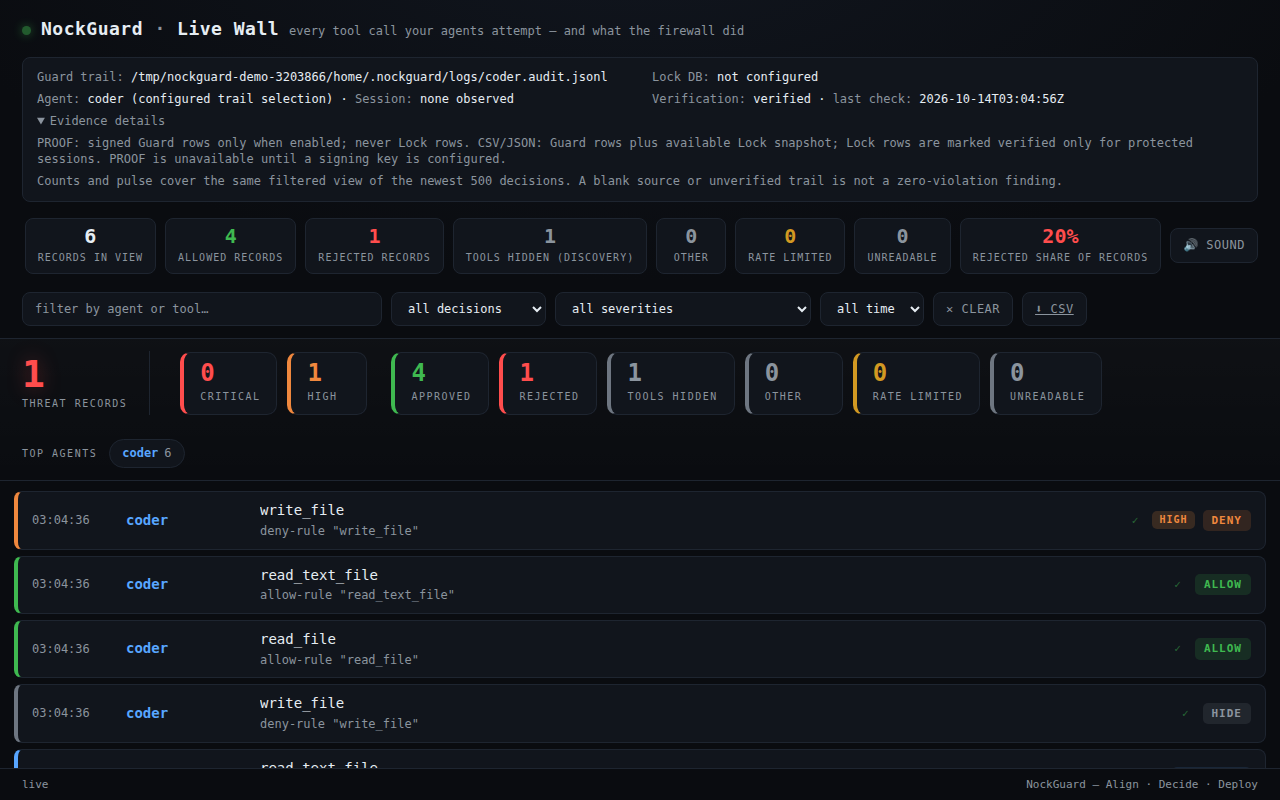
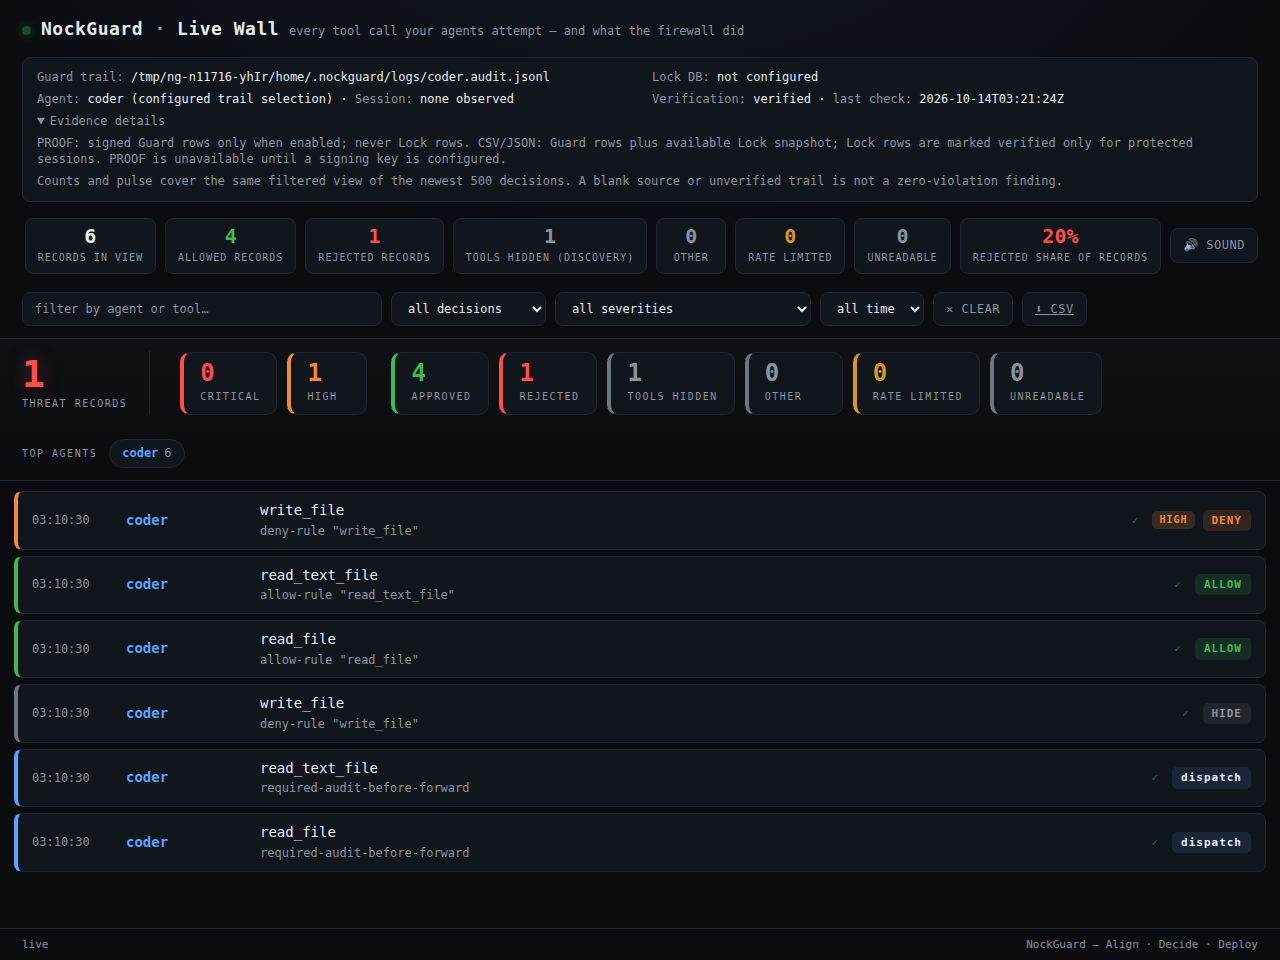
Docs: caption Wall screenshot as the acceptance trail, recapture uncut, note gitleaks and Linux-only check (#11716)

diff --git a/README.md b/README.md
@@ -39,10 +39,6 @@ The generated policy allows `coder` to call the filesystem server's `read_file` 
 }
 ```
 
-The Live Wall after the steps below, with the stub-backed quickstart's signed trail: two reads allowed, the `write_file` canary denied, and the `write_file` tool hidden from discovery. Verification reads `verified` against `coder.pub`.
-
-![NockGuard Live Wall showing allowed reads, a denied write_file and a verified signed trail](docs/screenshots/wall-signed-trail.png)
-
 Ask your MCP client to call `read_file` with `{"path":"<QS>/hello.txt"}`: it should return `NockGuard read succeeded`. Each `tools/call` routed through this proxy is policy-checked; with auditing enabled and the per-agent key available, its decision is recorded in a signed audit trail. After the call, run:
 
 ```bash
@@ -51,6 +47,10 @@ nockguard wall --agent coder          # open the Live Wall for coder's signed tr
 ```
 
 To exercise the blocked canary as well, run `python3 scripts/quickstart-acceptance.py` from a source checkout. This Linux CI test runs the commands above in an empty home with a local MCP stub using the filesystem server's tool names. It confirms both reads succeed, a direct `write_file` call is denied without creating a file, `verify` exits 0 with `PROTECTED`, and the signed trail records both allow and deny decisions. Denied tools are hidden from normal MCP tool discovery, so the test sends the canary call directly.
+
+The Live Wall over the trail that script writes (local stub upstream, `coder` agent): 6 records in view, 4 allowed (two `allow` and two `dispatch`), 1 rejected (the denied `write_file`) and 1 tool hidden (`write_file` in discovery). The header reads "Verification: verified" against `coder.pub`.
+
+![NockGuard Live Wall showing allowed reads, a denied write_file, a hidden write_file and a verified signed trail](docs/screenshots/wall-signed-trail.png)
 
 ### Observe first, then enforce
 

diff --git a/CONTRIBUTING.md b/CONTRIBUTING.md
@@ -17,10 +17,10 @@ go vet ./...
 test -z "$(gofmt -l internal/ cmd/)"
 go test -race ./...
 node --test cmd/nockguard-wall/index.test.js   # Wall browser tests (Node 22)
-python3 scripts/quickstart-acceptance.py       # README quickstart end to end
+python3 scripts/quickstart-acceptance.py       # README quickstart end to end (Linux only; CI runs it on ubuntu-latest)
 ```
 
-These are the checks CI runs; it also runs `govulncheck ./...`. Go version is pinned in `go.mod`. There are no generated files and no external services required for the test suite.
+These are the checks CI runs; it also runs the `gitleaks` secret scan and `govulncheck ./...`. Go version is pinned in `go.mod`. There are no generated files and no external services required for the test suite.
 
 Before opening a pull request, run the firewall's own proof against a policy that names your agent:
 
